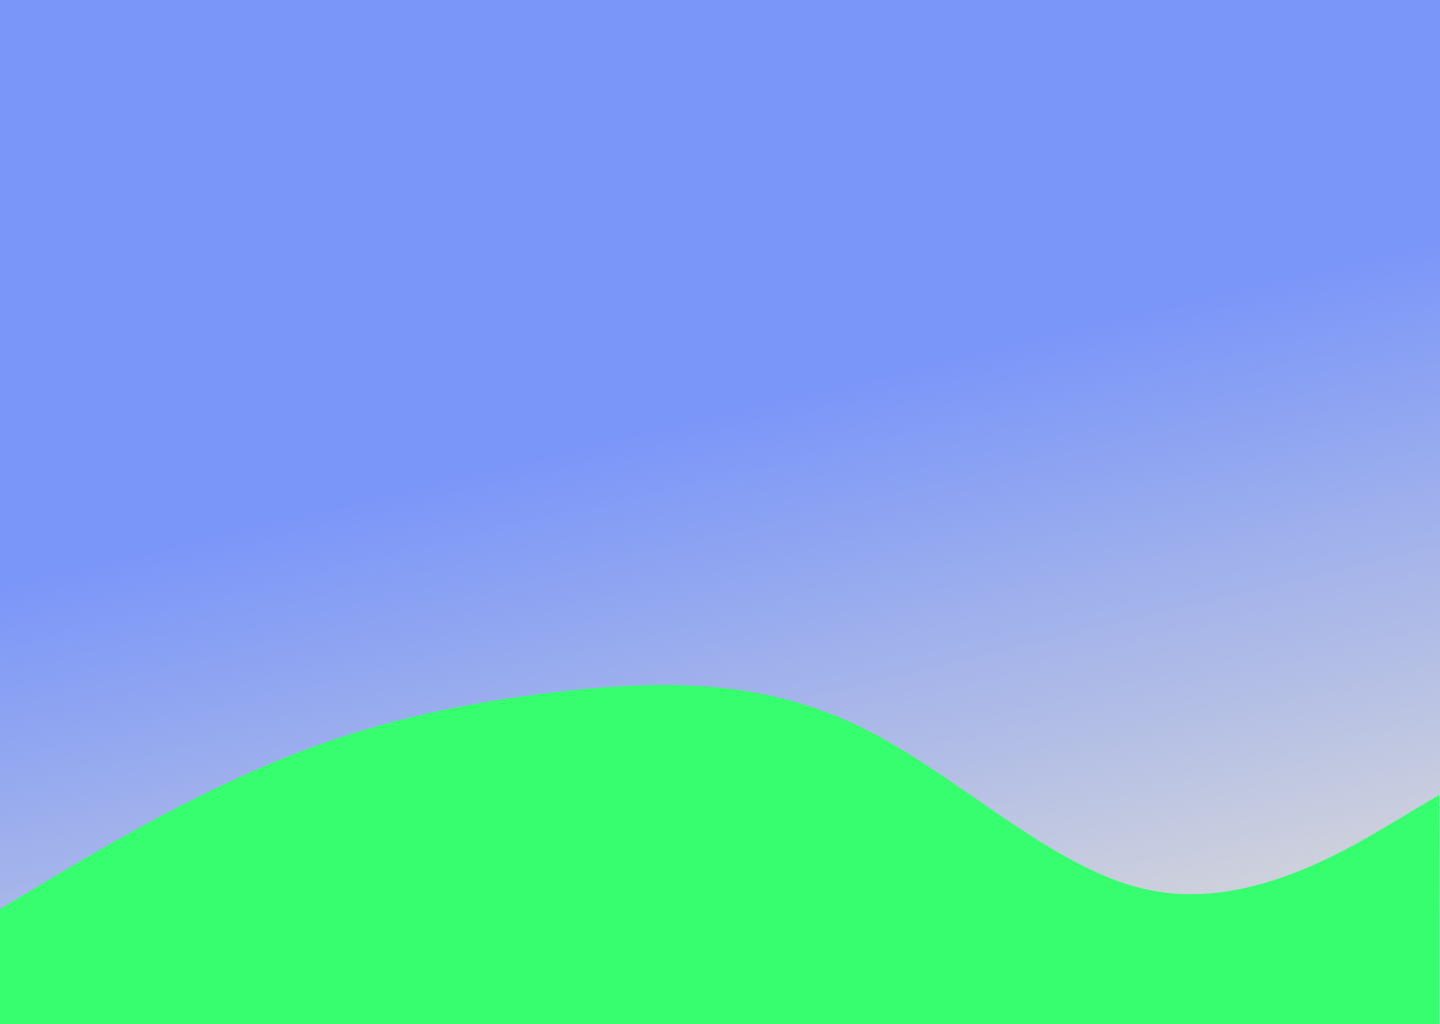
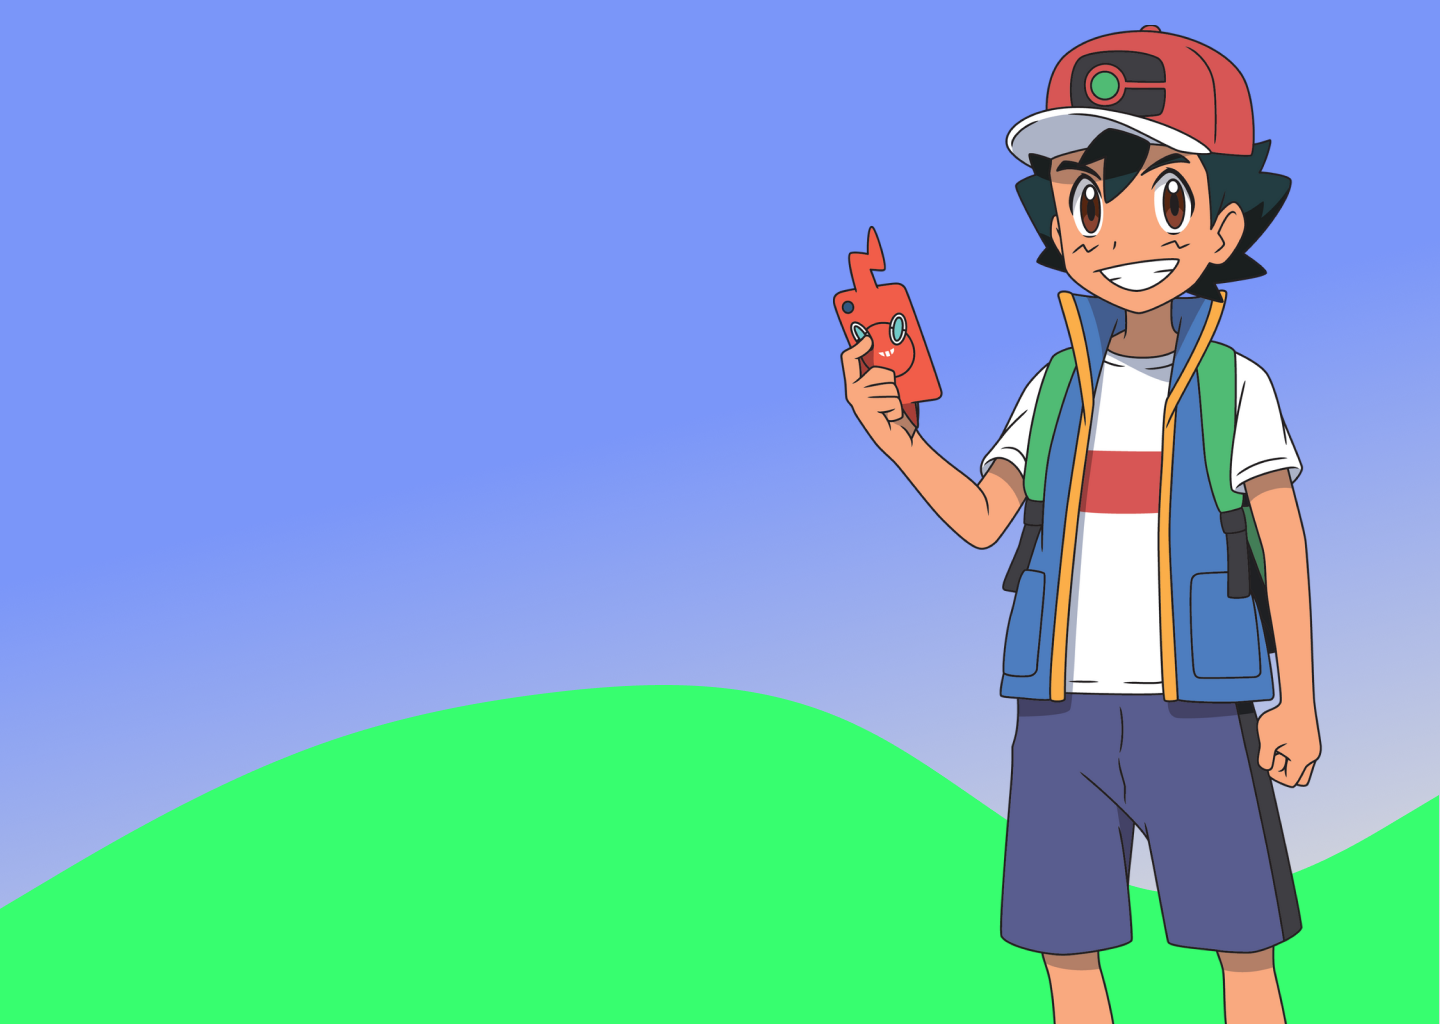
Home - Part 3

Changed region(s): [[0.5625, 0.0, 0.9375, 1.0]]

diff --git a/src/Styles/global.js b/src/Styles/global.js
@@ -1,7 +1,7 @@
 import styled from 'styled-components';
 
 import { createGlobalStyle } from "styled-components";
-import  BackgroundHome from '../assets/Home/BackgroundHome.svg'
+import BackgroundHome from '../assets/Home/BackgroundHome.png'
 
 export const GlobalStyle = createGlobalStyle`
 :root {
@@ -19,11 +19,12 @@ width: 1440px;
 `
 
 export const LogoContainer = styled.div`
-width: 600px;
+width: 700px;
 padding: 20px;
 display: flex;
 flex-direction: column;
 `
 export const SubLogoContainer = styled.div`
-margin-left: 150px;
+width: 540px;
+margin-left: 230px;
 `

diff --git a/src/App.js b/src/App.js
@@ -4,6 +4,7 @@ import { LogoContainer, HomeContainer, SubLogoContainer } from './Styles/global'
 //Images
 import ValentinJourney from './assets/Home/valentinjourney.png'
 import PokemonLogo from './assets/Home/pokemon-logo-3-1.png'
+import Ash from './assets/Home/Ash_JN.png'
 
 function App() {
   return (
